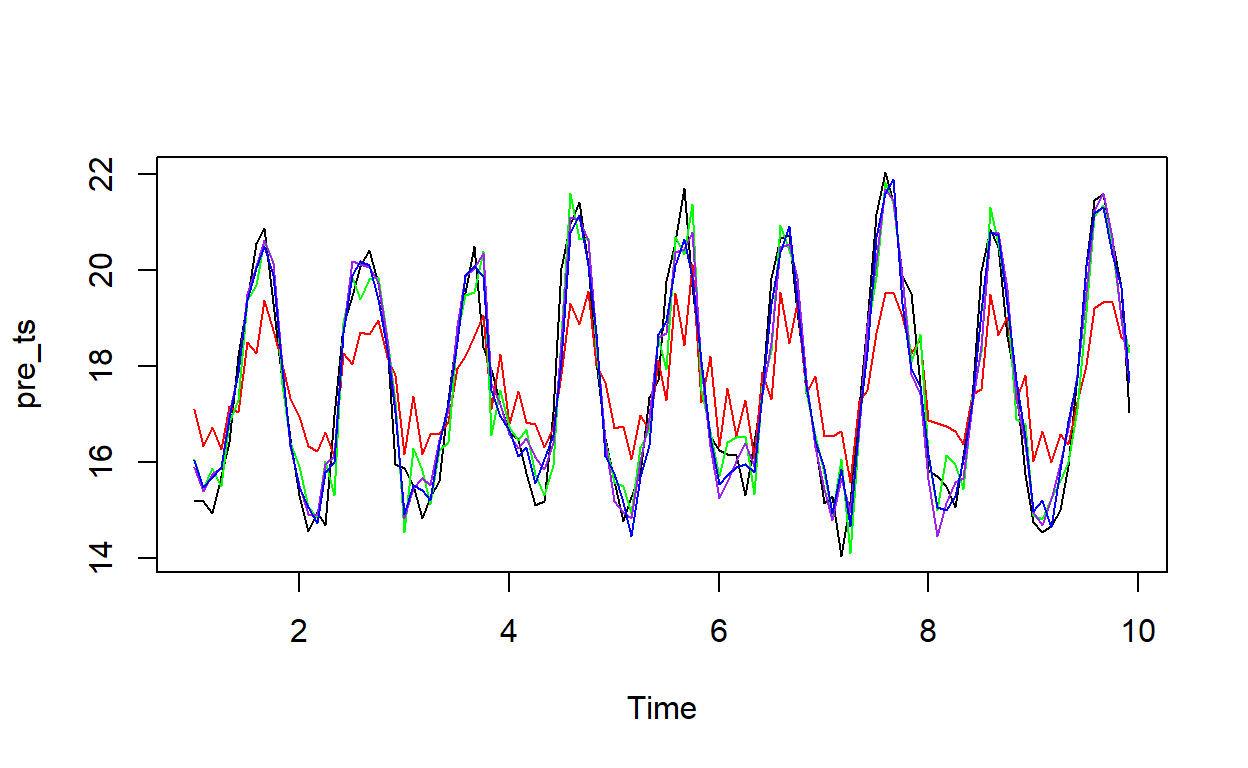
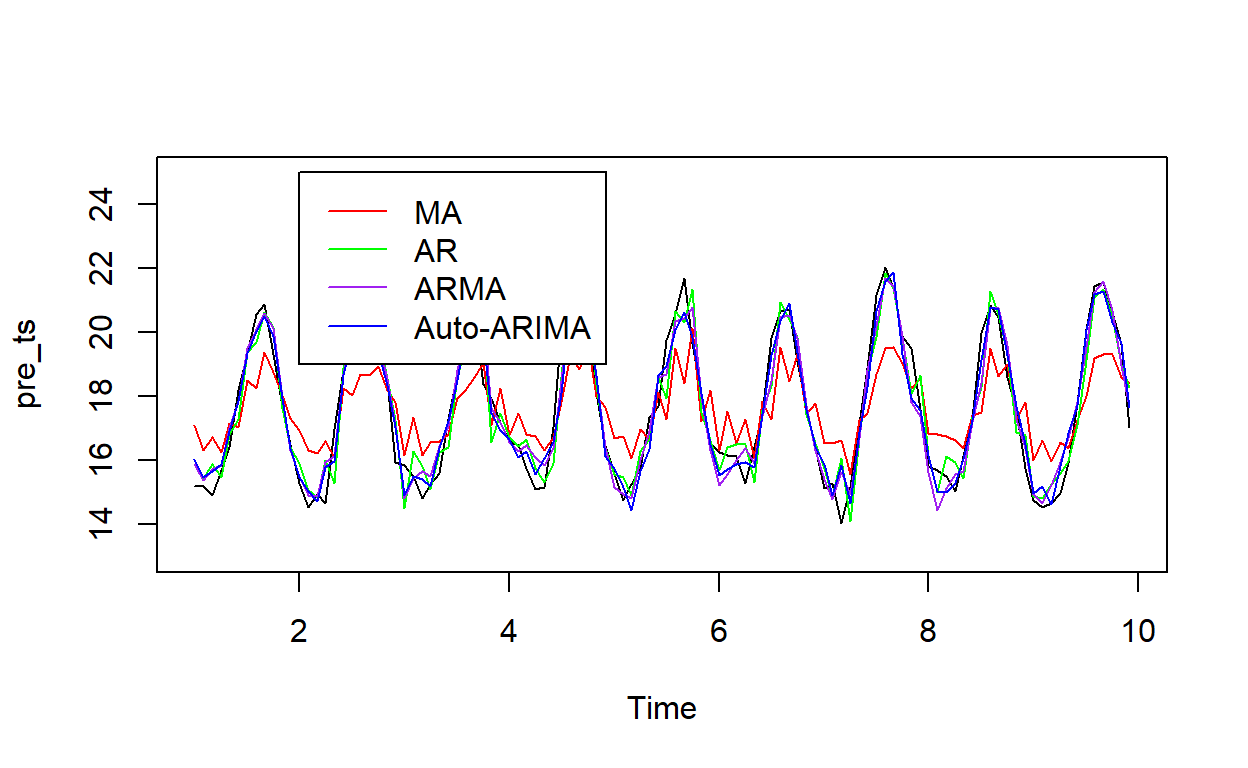
udpate legends in post

diff --git a/_posts/2023-06-09-arima-tutorial/arima-tutorial.html b/_posts/2023-06-09-arima-tutorial/arima-tutorial.html
@@ -1623,9 +1623,9 @@ y = y_t - 2y_{t - 1} + y_{t - 2}
 <span>       y <span class='op'>=</span> <span class='st'>"SST (°C)"</span><span class='op'>)</span></span></code></pre>
 </div>
 <div class="figure" style="text-align: center"><span style="display:block;" id="fig:unnamed-chunk-3"></span>
-<img src="arima-tutorial_files/figure-html5/unnamed-chunk-3-1.png" alt="Average SST in the Southern California Bight in 2000 - 2009" width="624"  />
+<img src="arima-tutorial_files/figure-html5/unnamed-chunk-3-1.png" alt="Average SST in the Southern California Bight in 2000 - 2009. Training data is in blue and testing data is in red" width="624"  />
 <p class="caption">
-Figure 1: Average SST in the Southern California Bight in 2000 - 2009
+Figure 1: Average SST in the Southern California Bight in 2000 - 2009. Training data is in blue and testing data is in red
 </p>
 </div>
 </div>
@@ -1805,11 +1805,12 @@ Model df: 5.   Total lags used: 22</code></pre>
 <div class="sourceCode">
 <pre class="sourceCode r"><code class="sourceCode r"><span><span class='fu'><a href='https://rdrr.io/r/graphics/par.html'>par</a></span><span class='op'>(</span>mfrow<span class='op'>=</span><span class='fu'><a href='https://rdrr.io/r/base/c.html'>c</a></span><span class='op'>(</span><span class='fl'>1</span>,<span class='fl'>1</span><span class='op'>)</span><span class='op'>)</span></span>
 <span></span>
-<span><span class='fu'><a href='https://rdrr.io/r/graphics/plot.default.html'>plot</a></span><span class='op'>(</span><span class='va'>pre_ts</span><span class='op'>)</span></span>
+<span><span class='fu'><a href='https://rdrr.io/r/graphics/plot.default.html'>plot</a></span><span class='op'>(</span><span class='va'>pre_ts</span>, ylim <span class='op'>=</span> <span class='fu'><a href='https://rdrr.io/r/base/range.html'>range</a></span><span class='op'>(</span><span class='fl'>13</span><span class='op'>:</span><span class='fl'>25</span><span class='op'>)</span><span class='op'>)</span></span>
 <span><span class='fu'><a href='https://rdrr.io/r/graphics/lines.html'>lines</a></span><span class='op'>(</span><span class='fu'><a href='https://rdrr.io/r/stats/fitted.values.html'>fitted</a></span><span class='op'>(</span><span class='va'>m1</span><span class='op'>)</span>, col <span class='op'>=</span> <span class='st'>"red"</span><span class='op'>)</span></span>
 <span><span class='fu'><a href='https://rdrr.io/r/graphics/lines.html'>lines</a></span><span class='op'>(</span><span class='fu'><a href='https://rdrr.io/r/stats/fitted.values.html'>fitted</a></span><span class='op'>(</span><span class='va'>m2</span><span class='op'>)</span>, col <span class='op'>=</span> <span class='st'>"green"</span><span class='op'>)</span></span>
 <span><span class='fu'><a href='https://rdrr.io/r/graphics/lines.html'>lines</a></span><span class='op'>(</span><span class='fu'><a href='https://rdrr.io/r/stats/fitted.values.html'>fitted</a></span><span class='op'>(</span><span class='va'>m3</span><span class='op'>)</span>, col <span class='op'>=</span> <span class='st'>"purple"</span><span class='op'>)</span></span>
-<span><span class='fu'><a href='https://rdrr.io/r/graphics/lines.html'>lines</a></span><span class='op'>(</span><span class='fu'><a href='https://rdrr.io/r/stats/fitted.values.html'>fitted</a></span><span class='op'>(</span><span class='va'>m4</span><span class='op'>)</span>, col <span class='op'>=</span> <span class='st'>"blue"</span><span class='op'>)</span></span></code></pre>
+<span><span class='fu'><a href='https://rdrr.io/r/graphics/lines.html'>lines</a></span><span class='op'>(</span><span class='fu'><a href='https://rdrr.io/r/stats/fitted.values.html'>fitted</a></span><span class='op'>(</span><span class='va'>m4</span><span class='op'>)</span>, col <span class='op'>=</span> <span class='st'>"blue"</span><span class='op'>)</span></span>
+<span><span class='fu'><a href='https://rdrr.io/r/graphics/legend.html'>legend</a></span><span class='op'>(</span>x <span class='op'>=</span> <span class='fl'>2</span>, y <span class='op'>=</span> <span class='fl'>25</span>, legend <span class='op'>=</span> <span class='fu'><a href='https://rdrr.io/r/base/c.html'>c</a></span><span class='op'>(</span><span class='st'>"MA"</span>, <span class='st'>"AR"</span>, <span class='st'>"ARMA"</span>, <span class='st'>"Auto-ARIMA"</span><span class='op'>)</span>, col <span class='op'>=</span> <span class='fu'><a href='https://rdrr.io/r/base/c.html'>c</a></span><span class='op'>(</span><span class='st'>"red"</span>, <span class='st'>"green"</span>, <span class='st'>"purple"</span>, <span class='st'>"blue"</span><span class='op'>)</span>, lty <span class='op'>=</span> <span class='fl'>1</span><span class='op'>)</span></span></code></pre>
 </div>
 <p><img src="arima-tutorial_files/figure-html5/unnamed-chunk-12-1.png" width="624"  style="display: block; margin: auto;" /></p>
 </div>
@@ -1858,13 +1859,16 @@ Model df: 5.   Total lags used: 22</code></pre>
 <span>  <span class='fu'><a href='https://ggplot2.tidyverse.org/reference/geom_path.html'>geom_line</a></span><span class='op'>(</span>data <span class='op'>=</span> <span class='va'>pre_sst</span>, <span class='fu'><a href='https://ggplot2.tidyverse.org/reference/aes.html'>aes</a></span><span class='op'>(</span><span class='va'>date</span>, <span class='va'>sst</span><span class='op'>)</span>, color <span class='op'>=</span> <span class='st'>"darkblue"</span><span class='op'>)</span> <span class='op'>+</span></span>
 <span>  <span class='fu'><a href='https://ggplot2.tidyverse.org/reference/geom_point.html'>geom_point</a></span><span class='op'>(</span>data <span class='op'>=</span> <span class='va'>pre_sst</span>, <span class='fu'><a href='https://ggplot2.tidyverse.org/reference/aes.html'>aes</a></span><span class='op'>(</span><span class='va'>date</span>, <span class='va'>sst</span><span class='op'>)</span>, color <span class='op'>=</span> <span class='st'>"darkblue"</span>, size <span class='op'>=</span> <span class='fl'>2</span><span class='op'>)</span> <span class='op'>+</span></span>
 <span>  <span class='fu'><a href='https://ggplot2.tidyverse.org/reference/geom_path.html'>geom_line</a></span><span class='op'>(</span>data <span class='op'>=</span> <span class='va'>post_sst</span>, <span class='fu'><a href='https://ggplot2.tidyverse.org/reference/aes.html'>aes</a></span><span class='op'>(</span><span class='va'>date</span>, <span class='va'>sst</span><span class='op'>)</span>, linetype <span class='op'>=</span> <span class='st'>"dashed"</span><span class='op'>)</span> <span class='op'>+</span></span>
-<span>  <span class='fu'><a href='https://ggplot2.tidyverse.org/reference/geom_path.html'>geom_line</a></span><span class='op'>(</span>data <span class='op'>=</span> <span class='va'>post_sst</span>, <span class='fu'><a href='https://ggplot2.tidyverse.org/reference/aes.html'>aes</a></span><span class='op'>(</span><span class='va'>date</span>, <span class='va'>forcast1</span><span class='op'>)</span>, color <span class='op'>=</span> <span class='st'>"red"</span><span class='op'>)</span> <span class='op'>+</span></span>
-<span>  <span class='fu'><a href='https://ggplot2.tidyverse.org/reference/geom_path.html'>geom_line</a></span><span class='op'>(</span>data <span class='op'>=</span> <span class='va'>post_sst</span>, <span class='fu'><a href='https://ggplot2.tidyverse.org/reference/aes.html'>aes</a></span><span class='op'>(</span><span class='va'>date</span>, <span class='va'>forcast2</span><span class='op'>)</span>, color <span class='op'>=</span> <span class='st'>"green"</span><span class='op'>)</span> <span class='op'>+</span></span>
-<span>  <span class='fu'><a href='https://ggplot2.tidyverse.org/reference/geom_path.html'>geom_line</a></span><span class='op'>(</span>data <span class='op'>=</span> <span class='va'>post_sst</span>, <span class='fu'><a href='https://ggplot2.tidyverse.org/reference/aes.html'>aes</a></span><span class='op'>(</span><span class='va'>date</span>, <span class='va'>forcast3</span><span class='op'>)</span>, color <span class='op'>=</span> <span class='st'>"purple"</span><span class='op'>)</span> <span class='op'>+</span></span>
-<span>  <span class='fu'><a href='https://ggplot2.tidyverse.org/reference/geom_path.html'>geom_line</a></span><span class='op'>(</span>data <span class='op'>=</span> <span class='va'>post_sst</span>, <span class='fu'><a href='https://ggplot2.tidyverse.org/reference/aes.html'>aes</a></span><span class='op'>(</span><span class='va'>date</span>, <span class='va'>forcast4</span><span class='op'>)</span>, color <span class='op'>=</span> <span class='st'>"blue"</span><span class='op'>)</span> <span class='op'>+</span></span>
+<span>  <span class='fu'><a href='https://ggplot2.tidyverse.org/reference/geom_path.html'>geom_line</a></span><span class='op'>(</span>data <span class='op'>=</span> <span class='va'>post_sst</span>, <span class='fu'><a href='https://ggplot2.tidyverse.org/reference/aes.html'>aes</a></span><span class='op'>(</span><span class='va'>date</span>, <span class='va'>forcast1</span>, color <span class='op'>=</span> <span class='st'>"MA"</span><span class='op'>)</span><span class='op'>)</span> <span class='op'>+</span></span>
+<span>  <span class='fu'><a href='https://ggplot2.tidyverse.org/reference/geom_path.html'>geom_line</a></span><span class='op'>(</span>data <span class='op'>=</span> <span class='va'>post_sst</span>, <span class='fu'><a href='https://ggplot2.tidyverse.org/reference/aes.html'>aes</a></span><span class='op'>(</span><span class='va'>date</span>, <span class='va'>forcast2</span>, color <span class='op'>=</span> <span class='st'>"AR"</span><span class='op'>)</span><span class='op'>)</span> <span class='op'>+</span></span>
+<span>  <span class='fu'><a href='https://ggplot2.tidyverse.org/reference/geom_path.html'>geom_line</a></span><span class='op'>(</span>data <span class='op'>=</span> <span class='va'>post_sst</span>, <span class='fu'><a href='https://ggplot2.tidyverse.org/reference/aes.html'>aes</a></span><span class='op'>(</span><span class='va'>date</span>, <span class='va'>forcast3</span>, color <span class='op'>=</span> <span class='st'>"ARMA"</span><span class='op'>)</span><span class='op'>)</span> <span class='op'>+</span></span>
+<span>  <span class='fu'><a href='https://ggplot2.tidyverse.org/reference/geom_path.html'>geom_line</a></span><span class='op'>(</span>data <span class='op'>=</span> <span class='va'>post_sst</span>, <span class='fu'><a href='https://ggplot2.tidyverse.org/reference/aes.html'>aes</a></span><span class='op'>(</span><span class='va'>date</span>, <span class='va'>forcast4</span>, color <span class='op'>=</span> <span class='st'>"Auto-ARIMA"</span><span class='op'>)</span><span class='op'>)</span> <span class='op'>+</span></span>
 <span>  <span class='fu'><a href='https://ggplot2.tidyverse.org/reference/ggtheme.html'>theme_bw</a></span><span class='op'>(</span><span class='op'>)</span> <span class='op'>+</span></span>
 <span>  <span class='fu'><a href='https://ggplot2.tidyverse.org/reference/labs.html'>labs</a></span><span class='op'>(</span>x <span class='op'>=</span> <span class='st'>"Date"</span>, </span>
-<span>       y <span class='op'>=</span> <span class='st'>"SST (°C)"</span><span class='op'>)</span></span></code></pre>
+<span>       y <span class='op'>=</span> <span class='st'>"SST (°C)"</span><span class='op'>)</span> <span class='op'>+</span> </span>
+<span>  <span class='fu'><a href='https://ggplot2.tidyverse.org/reference/scale_manual.html'>scale_color_manual</a></span><span class='op'>(</span>name<span class='op'>=</span><span class='st'>"Model"</span>,</span>
+<span>                     breaks<span class='op'>=</span><span class='fu'><a href='https://rdrr.io/r/base/c.html'>c</a></span><span class='op'>(</span><span class='st'>"MA"</span>, <span class='st'>"AR"</span>, <span class='st'>"ARMA"</span>, <span class='st'>"Auto-ARIMA"</span><span class='op'>)</span>,</span>
+<span>                     values<span class='op'>=</span><span class='fu'><a href='https://rdrr.io/r/base/c.html'>c</a></span><span class='op'>(</span><span class='st'>"MA"</span> <span class='op'>=</span> <span class='st'>"red"</span>, <span class='st'>"AR"</span> <span class='op'>=</span> <span class='st'>"green"</span>, <span class='st'>"ARMA"</span> <span class='op'>=</span> <span class='st'>"purple"</span>, <span class='st'>"Auto-ARIMA"</span> <span class='op'>=</span> <span class='st'>"blue"</span><span class='op'>)</span><span class='op'>)</span></span></code></pre>
 </div>
 <div class="figure" style="text-align: center"><span style="display:block;" id="fig:unnamed-chunk-16"></span>
 <img src="arima-tutorial_files/figure-html5/unnamed-chunk-16-1.png" alt="12 Month projections for the 3 ARIMA models used. The dark blue lines are the original data, the dashed black line is the observed SST values, and the model predictions are red for model 1, green for model 2, purple for model 3, and blue for model 4" width="624"  />

diff --git a/docs/posts/2023-06-09-arima-tutorial/index.html b/docs/posts/2023-06-09-arima-tutorial/index.html
@@ -2355,9 +2355,9 @@ y = y_t - 2y_{t - 1} + y_{t - 2}
 <span>       y <span class='op'>=</span> <span class='st'>"SST (°C)"</span><span class='op'>)</span></span></code></pre>
 </div>
 <div class="figure" style="text-align: center"><span style="display:block;" id="fig:unnamed-chunk-3"></span>
-<img src="arima-tutorial_files/figure-html5/unnamed-chunk-3-1.png" alt="Average SST in the Southern California Bight in 2000 - 2009" width="624"  />
+<img src="arima-tutorial_files/figure-html5/unnamed-chunk-3-1.png" alt="Average SST in the Southern California Bight in 2000 - 2009. Training data is in blue and testing data is in red" width="624"  />
 <p class="caption">
-Figure 1: Average SST in the Southern California Bight in 2000 - 2009
+Figure 1: Average SST in the Southern California Bight in 2000 - 2009. Training data is in blue and testing data is in red
 </p>
 </div>
 </div>
@@ -2537,11 +2537,12 @@ Model df: 5.   Total lags used: 22</code></pre>
 <div class="sourceCode">
 <pre class="sourceCode r"><code class="sourceCode r"><span><span class='fu'><a href='https://rdrr.io/r/graphics/par.html'>par</a></span><span class='op'>(</span>mfrow<span class='op'>=</span><span class='fu'><a href='https://rdrr.io/r/base/c.html'>c</a></span><span class='op'>(</span><span class='fl'>1</span>,<span class='fl'>1</span><span class='op'>)</span><span class='op'>)</span></span>
 <span></span>
-<span><span class='fu'><a href='https://rdrr.io/r/graphics/plot.default.html'>plot</a></span><span class='op'>(</span><span class='va'>pre_ts</span><span class='op'>)</span></span>
+<span><span class='fu'><a href='https://rdrr.io/r/graphics/plot.default.html'>plot</a></span><span class='op'>(</span><span class='va'>pre_ts</span>, ylim <span class='op'>=</span> <span class='fu'><a href='https://rdrr.io/r/base/range.html'>range</a></span><span class='op'>(</span><span class='fl'>13</span><span class='op'>:</span><span class='fl'>25</span><span class='op'>)</span><span class='op'>)</span></span>
 <span><span class='fu'><a href='https://rdrr.io/r/graphics/lines.html'>lines</a></span><span class='op'>(</span><span class='fu'><a href='https://rdrr.io/r/stats/fitted.values.html'>fitted</a></span><span class='op'>(</span><span class='va'>m1</span><span class='op'>)</span>, col <span class='op'>=</span> <span class='st'>"red"</span><span class='op'>)</span></span>
 <span><span class='fu'><a href='https://rdrr.io/r/graphics/lines.html'>lines</a></span><span class='op'>(</span><span class='fu'><a href='https://rdrr.io/r/stats/fitted.values.html'>fitted</a></span><span class='op'>(</span><span class='va'>m2</span><span class='op'>)</span>, col <span class='op'>=</span> <span class='st'>"green"</span><span class='op'>)</span></span>
 <span><span class='fu'><a href='https://rdrr.io/r/graphics/lines.html'>lines</a></span><span class='op'>(</span><span class='fu'><a href='https://rdrr.io/r/stats/fitted.values.html'>fitted</a></span><span class='op'>(</span><span class='va'>m3</span><span class='op'>)</span>, col <span class='op'>=</span> <span class='st'>"purple"</span><span class='op'>)</span></span>
-<span><span class='fu'><a href='https://rdrr.io/r/graphics/lines.html'>lines</a></span><span class='op'>(</span><span class='fu'><a href='https://rdrr.io/r/stats/fitted.values.html'>fitted</a></span><span class='op'>(</span><span class='va'>m4</span><span class='op'>)</span>, col <span class='op'>=</span> <span class='st'>"blue"</span><span class='op'>)</span></span></code></pre>
+<span><span class='fu'><a href='https://rdrr.io/r/graphics/lines.html'>lines</a></span><span class='op'>(</span><span class='fu'><a href='https://rdrr.io/r/stats/fitted.values.html'>fitted</a></span><span class='op'>(</span><span class='va'>m4</span><span class='op'>)</span>, col <span class='op'>=</span> <span class='st'>"blue"</span><span class='op'>)</span></span>
+<span><span class='fu'><a href='https://rdrr.io/r/graphics/legend.html'>legend</a></span><span class='op'>(</span>x <span class='op'>=</span> <span class='fl'>2</span>, y <span class='op'>=</span> <span class='fl'>25</span>, legend <span class='op'>=</span> <span class='fu'><a href='https://rdrr.io/r/base/c.html'>c</a></span><span class='op'>(</span><span class='st'>"MA"</span>, <span class='st'>"AR"</span>, <span class='st'>"ARMA"</span>, <span class='st'>"Auto-ARIMA"</span><span class='op'>)</span>, col <span class='op'>=</span> <span class='fu'><a href='https://rdrr.io/r/base/c.html'>c</a></span><span class='op'>(</span><span class='st'>"red"</span>, <span class='st'>"green"</span>, <span class='st'>"purple"</span>, <span class='st'>"blue"</span><span class='op'>)</span>, lty <span class='op'>=</span> <span class='fl'>1</span><span class='op'>)</span></span></code></pre>
 </div>
 <p><img src="arima-tutorial_files/figure-html5/unnamed-chunk-12-1.png" width="624"  style="display: block; margin: auto;" /></p>
 </div>
@@ -2590,13 +2591,16 @@ Model df: 5.   Total lags used: 22</code></pre>
 <span>  <span class='fu'><a href='https://ggplot2.tidyverse.org/reference/geom_path.html'>geom_line</a></span><span class='op'>(</span>data <span class='op'>=</span> <span class='va'>pre_sst</span>, <span class='fu'><a href='https://ggplot2.tidyverse.org/reference/aes.html'>aes</a></span><span class='op'>(</span><span class='va'>date</span>, <span class='va'>sst</span><span class='op'>)</span>, color <span class='op'>=</span> <span class='st'>"darkblue"</span><span class='op'>)</span> <span class='op'>+</span></span>
 <span>  <span class='fu'><a href='https://ggplot2.tidyverse.org/reference/geom_point.html'>geom_point</a></span><span class='op'>(</span>data <span class='op'>=</span> <span class='va'>pre_sst</span>, <span class='fu'><a href='https://ggplot2.tidyverse.org/reference/aes.html'>aes</a></span><span class='op'>(</span><span class='va'>date</span>, <span class='va'>sst</span><span class='op'>)</span>, color <span class='op'>=</span> <span class='st'>"darkblue"</span>, size <span class='op'>=</span> <span class='fl'>2</span><span class='op'>)</span> <span class='op'>+</span></span>
 <span>  <span class='fu'><a href='https://ggplot2.tidyverse.org/reference/geom_path.html'>geom_line</a></span><span class='op'>(</span>data <span class='op'>=</span> <span class='va'>post_sst</span>, <span class='fu'><a href='https://ggplot2.tidyverse.org/reference/aes.html'>aes</a></span><span class='op'>(</span><span class='va'>date</span>, <span class='va'>sst</span><span class='op'>)</span>, linetype <span class='op'>=</span> <span class='st'>"dashed"</span><span class='op'>)</span> <span class='op'>+</span></span>
-<span>  <span class='fu'><a href='https://ggplot2.tidyverse.org/reference/geom_path.html'>geom_line</a></span><span class='op'>(</span>data <span class='op'>=</span> <span class='va'>post_sst</span>, <span class='fu'><a href='https://ggplot2.tidyverse.org/reference/aes.html'>aes</a></span><span class='op'>(</span><span class='va'>date</span>, <span class='va'>forcast1</span><span class='op'>)</span>, color <span class='op'>=</span> <span class='st'>"red"</span><span class='op'>)</span> <span class='op'>+</span></span>
-<span>  <span class='fu'><a href='https://ggplot2.tidyverse.org/reference/geom_path.html'>geom_line</a></span><span class='op'>(</span>data <span class='op'>=</span> <span class='va'>post_sst</span>, <span class='fu'><a href='https://ggplot2.tidyverse.org/reference/aes.html'>aes</a></span><span class='op'>(</span><span class='va'>date</span>, <span class='va'>forcast2</span><span class='op'>)</span>, color <span class='op'>=</span> <span class='st'>"green"</span><span class='op'>)</span> <span class='op'>+</span></span>
-<span>  <span class='fu'><a href='https://ggplot2.tidyverse.org/reference/geom_path.html'>geom_line</a></span><span class='op'>(</span>data <span class='op'>=</span> <span class='va'>post_sst</span>, <span class='fu'><a href='https://ggplot2.tidyverse.org/reference/aes.html'>aes</a></span><span class='op'>(</span><span class='va'>date</span>, <span class='va'>forcast3</span><span class='op'>)</span>, color <span class='op'>=</span> <span class='st'>"purple"</span><span class='op'>)</span> <span class='op'>+</span></span>
-<span>  <span class='fu'><a href='https://ggplot2.tidyverse.org/reference/geom_path.html'>geom_line</a></span><span class='op'>(</span>data <span class='op'>=</span> <span class='va'>post_sst</span>, <span class='fu'><a href='https://ggplot2.tidyverse.org/reference/aes.html'>aes</a></span><span class='op'>(</span><span class='va'>date</span>, <span class='va'>forcast4</span><span class='op'>)</span>, color <span class='op'>=</span> <span class='st'>"blue"</span><span class='op'>)</span> <span class='op'>+</span></span>
+<span>  <span class='fu'><a href='https://ggplot2.tidyverse.org/reference/geom_path.html'>geom_line</a></span><span class='op'>(</span>data <span class='op'>=</span> <span class='va'>post_sst</span>, <span class='fu'><a href='https://ggplot2.tidyverse.org/reference/aes.html'>aes</a></span><span class='op'>(</span><span class='va'>date</span>, <span class='va'>forcast1</span>, color <span class='op'>=</span> <span class='st'>"MA"</span><span class='op'>)</span><span class='op'>)</span> <span class='op'>+</span></span>
+<span>  <span class='fu'><a href='https://ggplot2.tidyverse.org/reference/geom_path.html'>geom_line</a></span><span class='op'>(</span>data <span class='op'>=</span> <span class='va'>post_sst</span>, <span class='fu'><a href='https://ggplot2.tidyverse.org/reference/aes.html'>aes</a></span><span class='op'>(</span><span class='va'>date</span>, <span class='va'>forcast2</span>, color <span class='op'>=</span> <span class='st'>"AR"</span><span class='op'>)</span><span class='op'>)</span> <span class='op'>+</span></span>
+<span>  <span class='fu'><a href='https://ggplot2.tidyverse.org/reference/geom_path.html'>geom_line</a></span><span class='op'>(</span>data <span class='op'>=</span> <span class='va'>post_sst</span>, <span class='fu'><a href='https://ggplot2.tidyverse.org/reference/aes.html'>aes</a></span><span class='op'>(</span><span class='va'>date</span>, <span class='va'>forcast3</span>, color <span class='op'>=</span> <span class='st'>"ARMA"</span><span class='op'>)</span><span class='op'>)</span> <span class='op'>+</span></span>
+<span>  <span class='fu'><a href='https://ggplot2.tidyverse.org/reference/geom_path.html'>geom_line</a></span><span class='op'>(</span>data <span class='op'>=</span> <span class='va'>post_sst</span>, <span class='fu'><a href='https://ggplot2.tidyverse.org/reference/aes.html'>aes</a></span><span class='op'>(</span><span class='va'>date</span>, <span class='va'>forcast4</span>, color <span class='op'>=</span> <span class='st'>"Auto-ARIMA"</span><span class='op'>)</span><span class='op'>)</span> <span class='op'>+</span></span>
 <span>  <span class='fu'><a href='https://ggplot2.tidyverse.org/reference/ggtheme.html'>theme_bw</a></span><span class='op'>(</span><span class='op'>)</span> <span class='op'>+</span></span>
 <span>  <span class='fu'><a href='https://ggplot2.tidyverse.org/reference/labs.html'>labs</a></span><span class='op'>(</span>x <span class='op'>=</span> <span class='st'>"Date"</span>, </span>
-<span>       y <span class='op'>=</span> <span class='st'>"SST (°C)"</span><span class='op'>)</span></span></code></pre>
+<span>       y <span class='op'>=</span> <span class='st'>"SST (°C)"</span><span class='op'>)</span> <span class='op'>+</span> </span>
+<span>  <span class='fu'><a href='https://ggplot2.tidyverse.org/reference/scale_manual.html'>scale_color_manual</a></span><span class='op'>(</span>name<span class='op'>=</span><span class='st'>"Model"</span>,</span>
+<span>                     breaks<span class='op'>=</span><span class='fu'><a href='https://rdrr.io/r/base/c.html'>c</a></span><span class='op'>(</span><span class='st'>"MA"</span>, <span class='st'>"AR"</span>, <span class='st'>"ARMA"</span>, <span class='st'>"Auto-ARIMA"</span><span class='op'>)</span>,</span>
+<span>                     values<span class='op'>=</span><span class='fu'><a href='https://rdrr.io/r/base/c.html'>c</a></span><span class='op'>(</span><span class='st'>"MA"</span> <span class='op'>=</span> <span class='st'>"red"</span>, <span class='st'>"AR"</span> <span class='op'>=</span> <span class='st'>"green"</span>, <span class='st'>"ARMA"</span> <span class='op'>=</span> <span class='st'>"purple"</span>, <span class='st'>"Auto-ARIMA"</span> <span class='op'>=</span> <span class='st'>"blue"</span><span class='op'>)</span><span class='op'>)</span></span></code></pre>
 </div>
 <div class="figure" style="text-align: center"><span style="display:block;" id="fig:unnamed-chunk-16"></span>
 <img src="arima-tutorial_files/figure-html5/unnamed-chunk-16-1.png" alt="12 Month projections for the 3 ARIMA models used. The dark blue lines are the original data, the dashed black line is the observed SST values, and the model predictions are red for model 1, green for model 2, purple for model 3, and blue for model 4" width="624"  />
